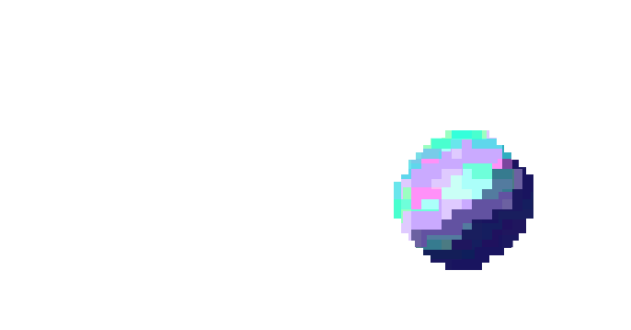
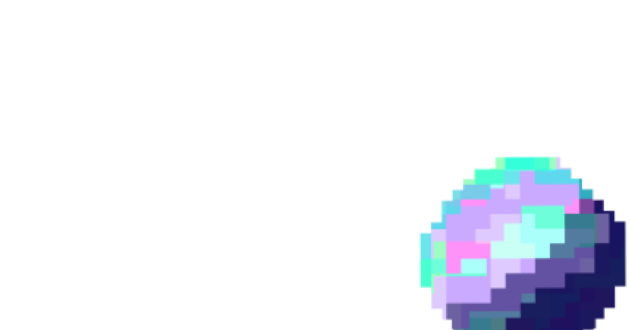
Настроено окно главного меню(без движения и кнопок)

Changed region(s): [[0.6022, 0.3939, 0.9937, 1.0]]

diff --git a/data/hehe_netest.py b/data/hehe_netest.py
@@ -1,34 +1,60 @@
 # Тест меню
 import pygame
+import Menu_fon
 
 # pygame setup
 pygame.init()
-size = width, height = 1920, 1280
+screen_info = pygame.display.Info() #узнаем размеры экрана пользователя
+width = screen_info.current_w #ширина
+height = screen_info.current_h #высота
+
+increase_byx = (width / 631) #увеличение по x и y
+increase_byy = (height / 330)
+# print("Ширина экрана:", width)
+# print("Высота экрана:", height)
 screen = pygame.display.set_mode((0, 0), pygame.FULLSCREEN)
+
 clock = pygame.time.Clock()
 pygame.display.set_caption("Тестовое меню")
 running = True
 
 while running:
+    keys = pygame.key.get_pressed()
     for event in pygame.event.get():
-        if event.type == pygame.QUIT:
+        if keys[pygame.K_ESCAPE]:
             pygame.quit()
             exit()
-    fon = pygame.image.load("../images/Space sky.png")
-    fon = pygame.transform.scale(fon, (1920, 1280))
+            # выход через esc
+    fon = pygame.image.load("../images/Space_sky.png")
+    fon = pygame.transform.scale(fon, (width, height))
     screen.blit(fon, (0, 0))
-    galacktika1 = pygame.image.load("../images/Galactika1.png")
-    galacktika1 = pygame.transform.scale(galacktika1, (800, 1000))
-    screen.blit(galacktika1, (480, -300))
-    galacktika2 = pygame.image.load("../images/galactika2.png")
-    galacktika2 = pygame.transform.scale(galacktika2, (1000, 500))
-    screen.blit(galacktika2, (30, 200))
-    # planeta2 = pygame.image.load("../images/planet2.png")
-    # planeta2 = pygame.transform.scale(planeta2, (1700, 900))
-    # screen.blit(planeta2, (300, 100))
-    planeta = pygame.image.load("../images/planet.png")
-    planeta = pygame.transform.scale(planeta, (1200, 600))
-    screen.blit(planeta, (300, 100))
+    planet1 = pygame.image.load("../images/planet.png")
+    planet1 = pygame.transform.scale(planet1, (width, height))
+    screen.blit(planet1, (0, 0))
+    planet2 = pygame.image.load("../images/planet2.png")
+    planet2 = pygame.transform.scale(planet2, (width, height))
+    screen.blit(planet2, (0, 0))
+    galaktika1 = pygame.image.load("../images/Galactika1.png")
+    galaktika1 = pygame.transform.scale(galaktika1, (width -50, height-50))
+    screen.blit(galaktika1, (0, 0))
+    galaktika2 = pygame.image.load("../images/galactika2.png")
+    galaktika2 = pygame.transform.scale(galaktika2, (width, height))
+    screen.blit(galaktika2, (0, 0))
+    planet2 = pygame.image.load("../images/planet2.png")
+    planet2 = pygame.transform.scale(planet2, (width, height))
+    screen.blit(planet2, (0, 0))
+    planetka = pygame.image.load("../images/mini_planetka.png")
+    planetka = pygame.transform.scale(planetka, (width, height))
+    screen.blit(planetka, (0, 0))
+    new_game_button = pygame.image.load("../images/newGametextures.png")
+    new_game_button = pygame.transform.scale(new_game_button, (width, height))
+    screen.blit(new_game_button, (0, 0))
+    start_button = pygame.image.load("../images/start_textures.png")
+    start_button = pygame.transform.scale(start_button, (width, height))
+    screen.blit(start_button, (0, 0))
+    settings = pygame.image.load("../images/menu_textures.png")
+    settings = pygame.transform.scale(settings, (width, height))
+    screen.blit(settings, (0, 0))
     pygame.display.update()
     dt = clock.tick(30) / 1000
 

diff --git a/main.py b/main.py
@@ -1,38 +1,10 @@
-# Example file showing a circle moving on screen
-# Примеры событий
-# python -m pygame.examples.eventlist
-
 import pygame
 
-# pygame setup
 pygame.init()
-size = width, height = 1280, 720
-screen = pygame.display.set_mode(size)
-clock = pygame.time.Clock()
-pygame.display.set_caption("Белий кролик")
-running = True
-MYEVENTTYPE = pygame.USEREVENT + 1
-pygame.time.set_timer(MYEVENTTYPE, 1000)
+screen_info = pygame.display.Info()
 
-while running:
-    screen.fill("purple")
-    # poll for events
-    # pygame.QUIT event means the user clicked X to close your window
-    for event in pygame.event.get():
-        if event.type == pygame.QUIT:
-            running = False
-        if event.type == pygame.MOUSEMOTION:
-            pygame.draw.circle(screen, 'white', event.pos, 20)
-            pygame.draw.ellipse(screen, 'white', (event.pos[0] - 15,
-                                                  event.pos[1] - 40, 10, 40), 20)
-            pygame.draw.ellipse(screen, 'white', (event.pos[0] + 5,
-                                                  event.pos[1] - 40, 10, 40), 20)
-        if event.type == MYEVENTTYPE:
-            print("Мое событие")
+width = screen_info.current_w
+height = screen_info.current_h
 
-    pygame.display.flip()
-    # limits FPS to 60
-    # independent physics.
-    dt = clock.tick(30) / 1000
-
-pygame.quit()
+print("Ширина экрана:", width)
+print("Высота экрана:", height)

diff --git a/data/test_shield.py b/data/test_shield.py
@@ -2,17 +2,37 @@ import pygame
 import pygame_gui
 
 pygame.init()
+
 pygame.display.set_caption('Quick Start')
 window_surface = pygame.display.set_mode((800, 600))
+
 background = pygame.Surface((800, 600))
 background.fill(pygame.Color('#000000'))
+
 manager = pygame_gui.UIManager((800, 600))
+
+hello_button = pygame_gui.elements.UIButton(relative_rect=pygame.Rect((350, 275), (100, 50)),
+                                            text='Say Hello',
+                                            manager=manager)
+
+clock = pygame.time.Clock()
 is_running = True
+
 while is_running:
+    time_delta = clock.tick(60) / 1000.0
     for event in pygame.event.get():
         if event.type == pygame.QUIT:
             is_running = False
 
+        if event.type == pygame_gui.UI_BUTTON_PRESSED:
+            if event.ui_element == hello_button:
+                print('Hello World!')
+
+        manager.process_events(event)
+
+    manager.update(time_delta)
+
     window_surface.blit(background, (0, 0))
+    manager.draw_ui(window_surface)
 
     pygame.display.update()

diff --git a/data/Menu_fon.py b/data/Menu_fon.py
@@ -1,0 +1,23 @@
+import pygame
+class Menu_Fon:
+    def __init__(self, weight, height):
+        self.weight = weight
+        self.height = height
+        self.increase_w = (weight / 631)
+        self.increase_h = (height / 330)
+        print(weight, height, self.increase_h, self.increase_w)
+    def draw_Menu(self):
+        pass
+
+
+
+# pygame.init()
+# screen = pygame.display.set_mode((0, 0), pygame.FULLSCREEN)
+#
+# clock = pygame.time.Clock()
+# pygame.display.set_caption("Тестовое меню")
+# running = True
+# lines = pygame.sprite.Group()
+# all_b = pygame.sprite.Group()
+# # all_b.draw(screen)
+rec = Menu_Fon(1000, 1000)
